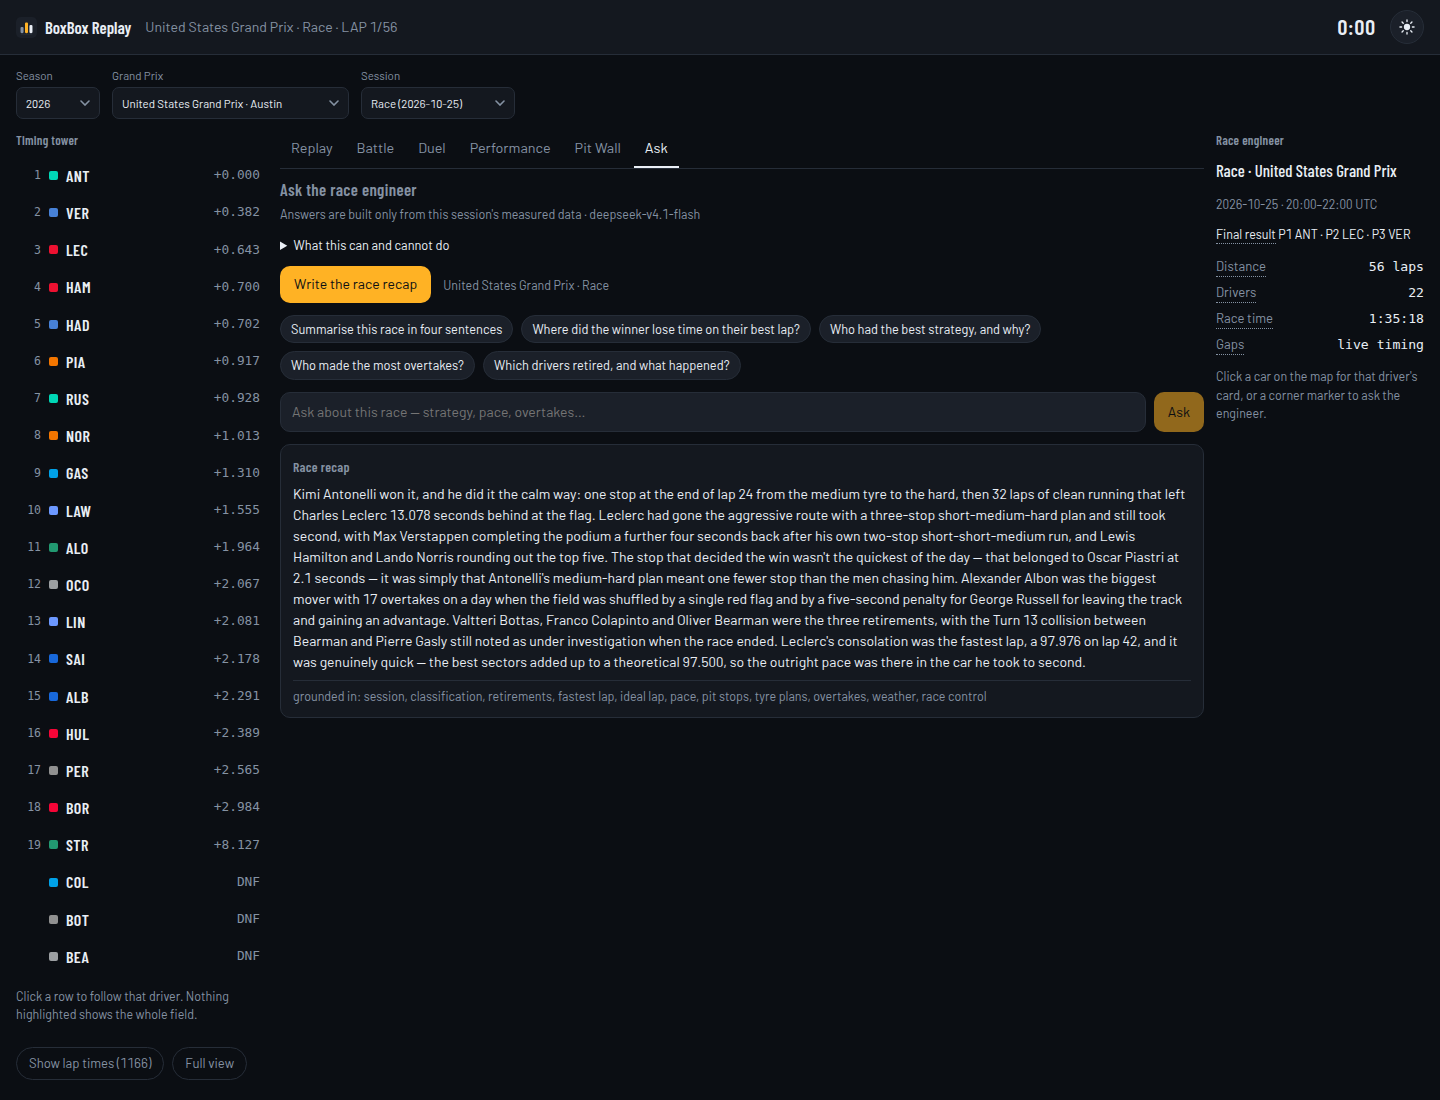
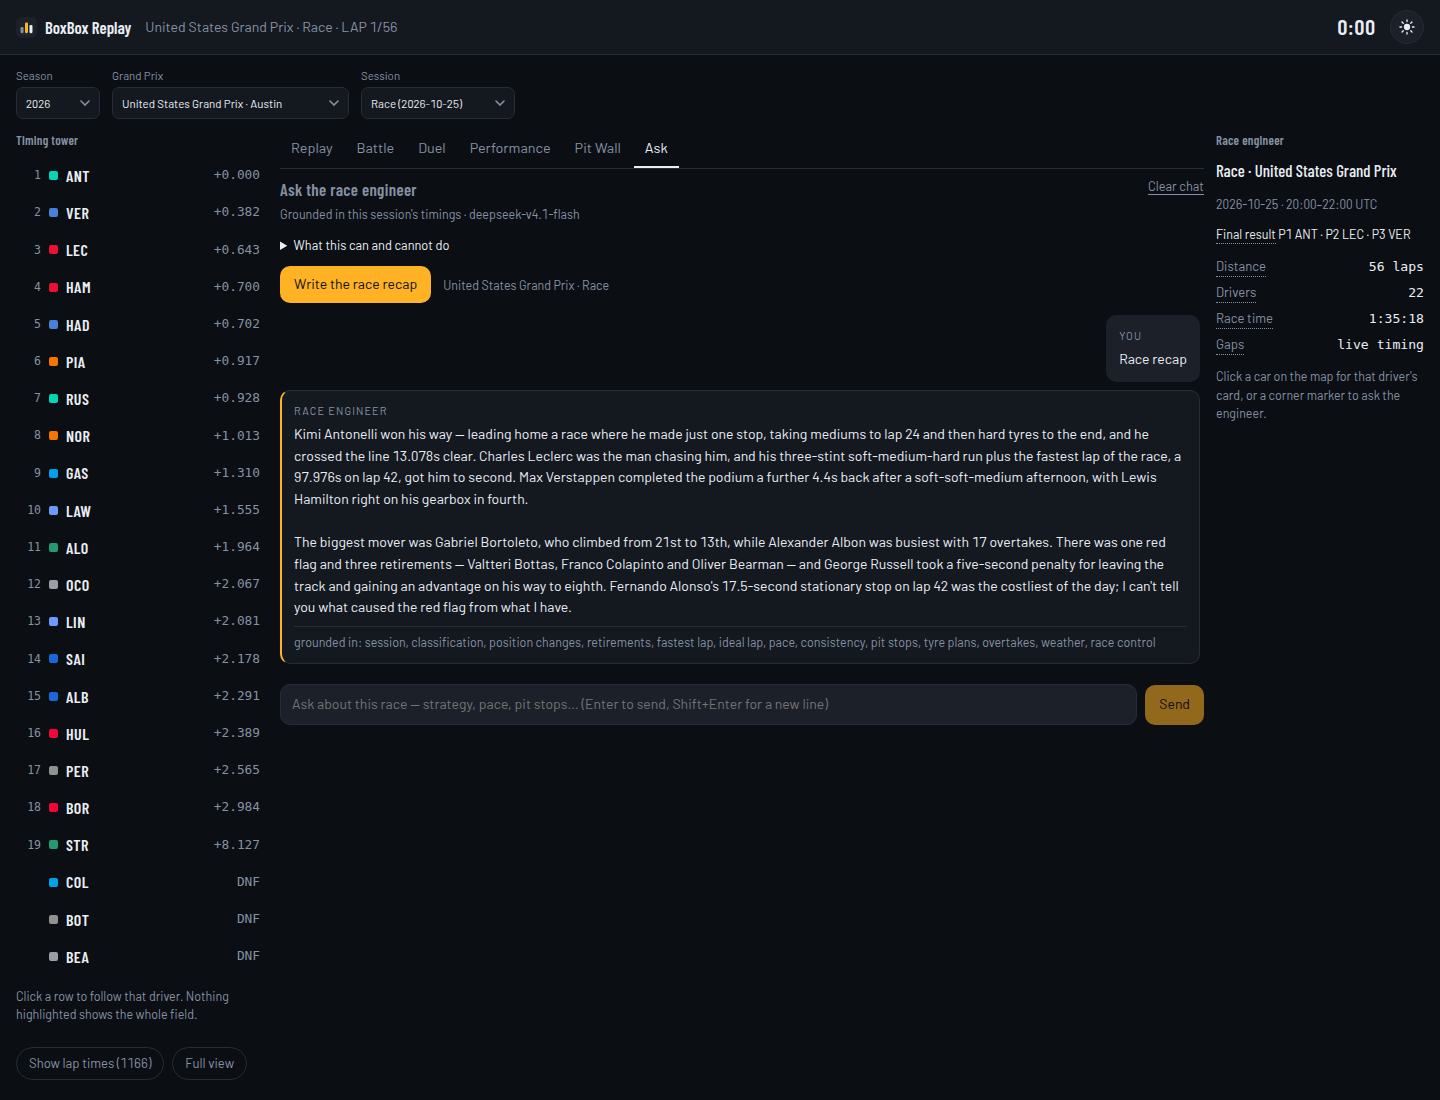
feat(pit): explain the call in plain language
The arithmetic stays the source of truth; the engineer only narrates it. The
button sends the same inputs to /ai/pit, which recomputes the model and asks for
three sentences naming the biggest assumption. The explanation resets whenever
the inputs change, and errors never touch the numbers.

diff --git a/web/src/components/PitPanel.tsx b/web/src/components/PitPanel.tsx
@@ -35,6 +35,9 @@ export default function PitPanel(p: Props) {
   const [pitLoss, setPitLoss] = useState(22);
   const [call, setCall] = useState<Call | null>(null);
   const [error, setError] = useState(false);
+  const [explain, setExplain] = useState<string | null>(null);
+  const [explainBusy, setExplainBusy] = useState(false);
+  const [explainError, setExplainError] = useState<string | null>(null);
 
   const mine = useMemo(
     () => p.laps.filter((l) => l.driver_number === p.driver).sort((a, b) => a.lap_number - b.lap_number),
@@ -89,6 +92,11 @@ export default function PitPanel(p: Props) {
     deg = 0;
     degMeasured = false;
   }
+
+  useEffect(() => {
+    setExplain(null);
+    setExplainError(null);
+  }, [base, fresh, deg, lapsLeft, pitLoss, p.gapBehind, p.driver]);
 
   useEffect(() => {
     if (!base || !fresh) return;
@@ -220,6 +228,53 @@ export default function PitPanel(p: Props) {
               Traffic on exit: the car behind is closer than the pit loss, so you would rejoin behind it.
             </p>
           )}
+
+          <div className="pit-explain">
+            <button
+              type="button"
+              className="pit-explain-btn"
+              disabled={explainBusy}
+              onClick={async () => {
+                setExplainBusy(true);
+                setExplainError(null);
+                try {
+                  const reply = await api.aiPitExplain({
+                    session_key: p.sessionKey,
+                    driver: p.driverCode(p.driver),
+                    compound: currentStint?.compound ?? "",
+                    base_pace_s: base,
+                    fresh_pace_s: fresh,
+                    deg_slope_s_per_lap: deg,
+                    laps_remaining: lapsLeft,
+                    pit_loss_s: pitLoss,
+                    gap_behind_s: p.gapBehind,
+                  });
+                  setExplain(reply.answer);
+                } catch (err: unknown) {
+                  const message = err instanceof Error ? err.message : "";
+                  setExplainError(
+                    message.includes("503")
+                      ? "The engineer is not configured on this deployment."
+                      : "The engineer did not answer. The numbers above are unaffected.",
+                  );
+                } finally {
+                  setExplainBusy(false);
+                }
+              }}
+            >
+              {explainBusy ? "Asking the engineer…" : "Explain this call"}
+            </button>
+            <span className="dim small">
+              Plain-language reasoning from the same numbers — the model never recalculates them.
+            </span>
+            {explainError && <p className="small warn">{explainError}</p>}
+            {explain && (
+              <div className="pit-explain-note">
+                <p>{explain}</p>
+                <footer className="dim small">AI explanation · the arithmetic above is the source of truth</footer>
+              </div>
+            )}
+          </div>
 
           <h3 style={{ marginTop: 18 }}>Where the numbers come from</h3>
           <table className="laps mono" style={{ fontSize: "0.82rem" }}>
